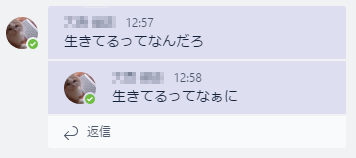
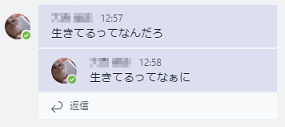
Slack のタイムラインの画像を載せた

diff --git a/SlackVsTeams/main.md b/SlackVsTeams/main.md
@@ -61,7 +61,7 @@ Office 365 のツールの一部として,
 
 Slack は基本的にタイムライン
 
-(画像載せる)
+![TimeLine](./images/TimeLineCensored.png)
 
 Teams は基本的にスレッド
 
